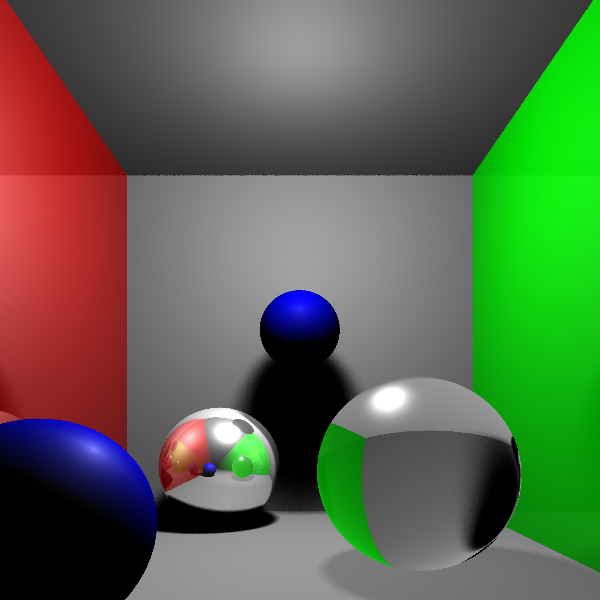
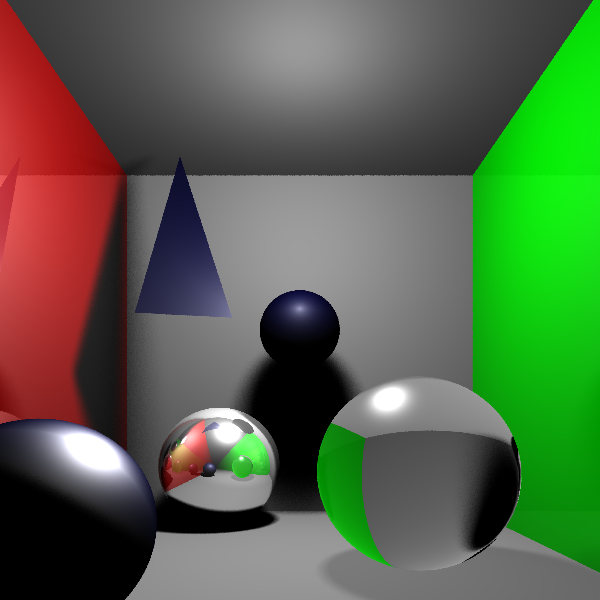
Add triangle to sample scene.

diff --git a/my_scene.rs b/my_scene.rs
@@ -1,5 +1,5 @@
 use geometry::Prim;
-use geometry::Prims::{Plane, Sphere};
+use geometry::Prims::{Plane, Sphere, Triangle};
 use light::Light;
 // use light::Lights::{PointLight, SphereLight}; // All lights
 use light::Lights::{SphereLight};
@@ -27,8 +27,8 @@ pub fn get_scene() -> Scene {
     // lights.push(box PointLight {position: Vec3 {x: 50.0, y: 20.0, z: 50.0}, color: Vec3::one()});
     lights.push(box SphereLight {position: Vec3 {x: 50.0, y: 80.0, z: 50.0}, color: Vec3::one(), radius: 10.0});
 
-    let grey    = CookTorranceMaterial {k_a: 0.0, k_d: 1.0, k_s: 1.0, k_sg: 0.0, k_tg: 0.0, gauss_constant: 0.6, roughness: 0.15, ior: 1.5, ambient: Vec3::one(), diffuse: Vec3 {x: 0.6, y: 0.6, z: 0.6}, specular: Vec3::one(), transmission: Vec3::zero()};
-    let blue    = CookTorranceMaterial {k_a: 0.0, k_d: 1.0, k_s: 1.0, k_sg: 0.0, k_tg: 0.0, gauss_constant: 0.6, roughness: 0.08, ior: 2.0, ambient: Vec3::one(), diffuse: Vec3 {x: 0.0, y: 0.0, z: 1.0}, specular: Vec3::one(), transmission: Vec3::zero()};
+    let grey    = CookTorranceMaterial {k_a: 0.0, k_d: 1.0, k_s: 1.0, k_sg: 0.0, k_tg: 0.0, gauss_constant: 1.0, roughness: 0.15, ior: 1.5, ambient: Vec3::one(), diffuse: Vec3 {x: 0.6, y: 0.6, z: 0.6}, specular: Vec3::one(), transmission: Vec3::zero()};
+    let blue    = CookTorranceMaterial {k_a: 0.0, k_d: 0.2, k_s: 0.8, k_sg: 0.0, k_tg: 0.0, gauss_constant: 50.0, roughness: 0.1, ior: 1.3, ambient: Vec3::one(), diffuse: Vec3 {x: 0.1, y: 0.1, z: 1.0}, specular: Vec3::one(), transmission: Vec3::zero()};
     let red     = PhongMaterial {k_a: 0.0, k_d: 0.6, k_s: 0.4, k_sg: 0.3, k_tg: 0.0, shininess: 10.0, ior: 1.0, ambient: Vec3::one(), diffuse: Vec3 {x: 1.0, y: 0.0, z: 0.0}, specular: Vec3::one(), transmission: Vec3::zero()};
     let green   = PhongMaterial {k_a: 0.0, k_d: 0.9, k_s: 0.1, k_sg: 0.1, k_tg: 0.0, shininess: 10.0, ior: 1.0, ambient: Vec3::one(), diffuse: Vec3 {x: 0.0, y: 1.0, z: 0.0}, specular: Vec3::one(), transmission: Vec3::zero()};
     let shiny   = PhongMaterial {k_a: 0.0, k_d: 0.5, k_s: 1.0, k_sg: 1.0, k_tg: 0.0, shininess: 50.0, ior: 1.0, ambient: Vec3::one(), diffuse: Vec3 {x: 1.0, y: 1.0, z: 1.0}, specular: Vec3::one(), transmission: Vec3::zero()};
@@ -44,6 +44,12 @@ pub fn get_scene() -> Scene {
     prims.push(box Sphere {center: Vec3 {x: 70.0, y: 17.0, z: 60.0}, radius: 17.0, material: box refract});
     prims.push(box Sphere {center: Vec3 {x: 50.0, y: 50.0, z: 20.0}, radius: 10.0, material: box blue});
     prims.push(box Sphere {center: Vec3 {x: 20.0, y: 13.0, z: 90.0}, radius: 13.0, material: box blue});
+    prims.push(box Triangle::auto_normal(Vec3 {x: 15.0, y: 50.0, z: 40.0}, Vec3 {x: 35.0, y: 50.0, z: 35.0}, Vec3 {x: 20.0, y: 95.0, z: 20.0}, box blue));
+    prims.push(box Triangle::auto_normal(
+        Vec3 {x: 20.0, y: 95.0, z: 20.0},
+        Vec3 {x: 15.0, y: 50.0, z: 40.0},
+        Vec3 {x: 35.0, y: 50.0, z: 35.0},
+        box blue));
 
     Scene {
         lights: lights,

diff --git a/main.rs b/main.rs
@@ -11,8 +11,8 @@ mod vec3;
 
 fn main() {
     let start_time = ::time::get_time().sec;
-    let image_width = 400;
-    let image_height = 400;
+    let image_width = 600;
+    let image_height = 600;
     let out_file = "test.ppm";
 
     println!("Render started at {}", start_time);
